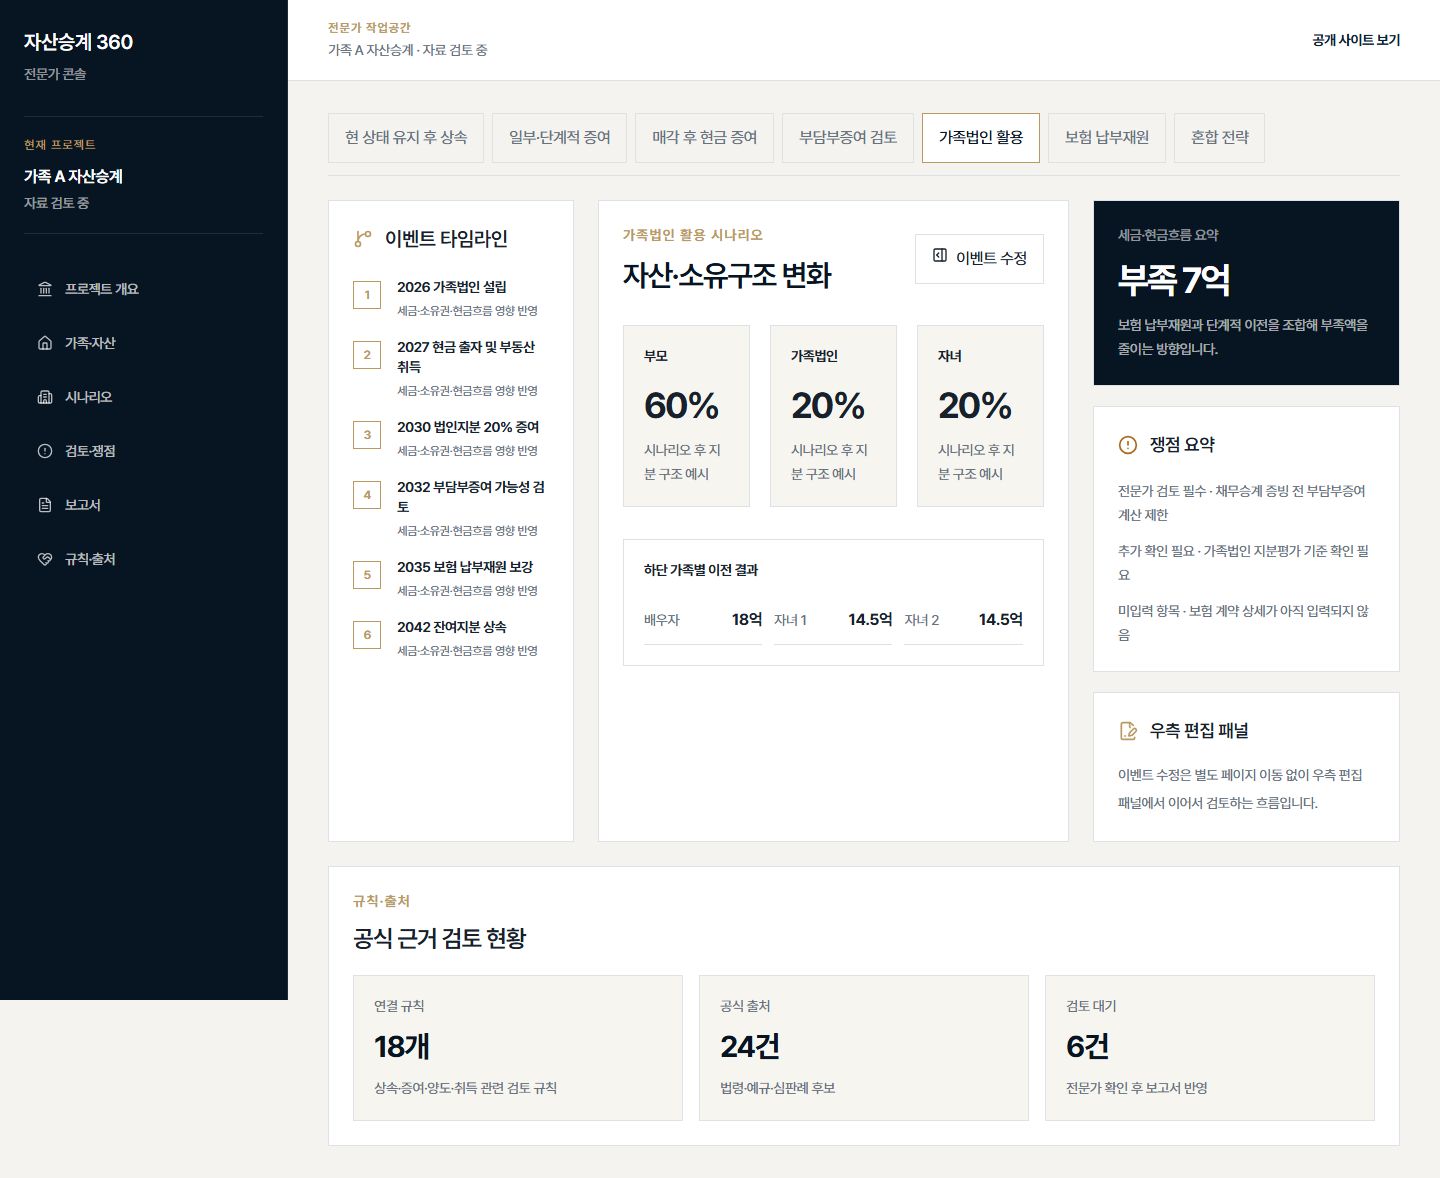
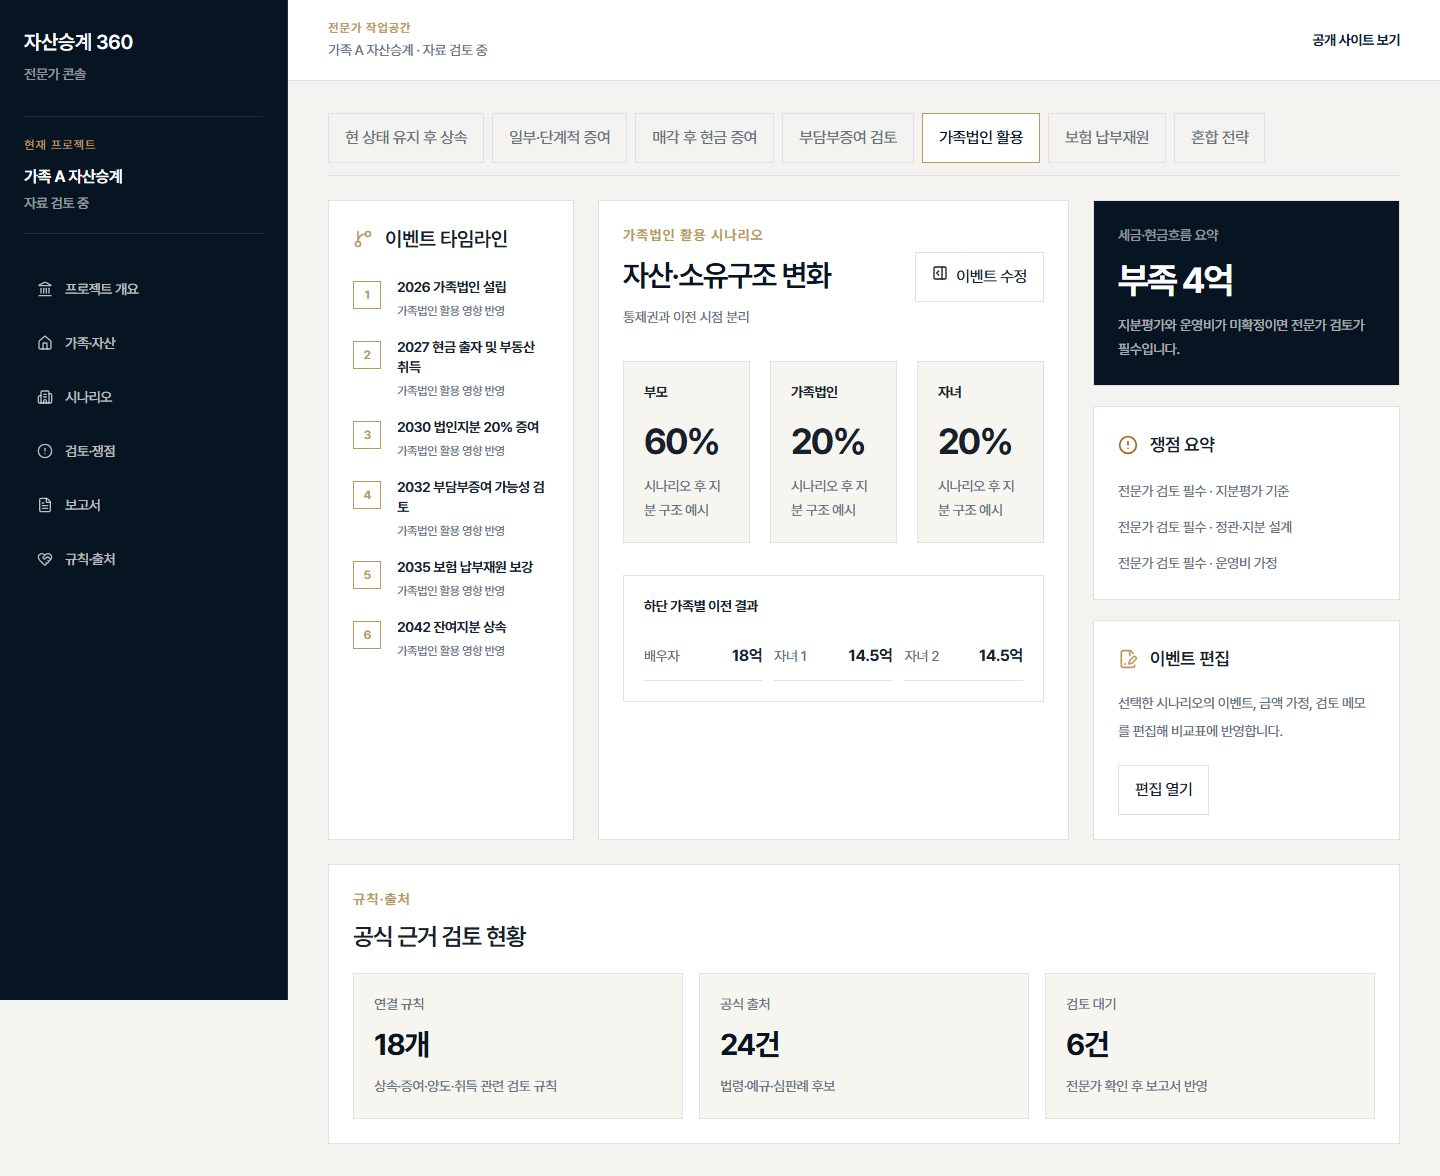
Implement expert scenario interactions

diff --git a/app/expert/workspace/page.tsx b/app/expert/workspace/page.tsx
@@ -1,16 +1,84 @@
-import { CircleAlert, FilePenLine, GitBranch, PanelRightOpen } from "lucide-react";
+"use client";
+
+import { CircleAlert, FilePenLine, GitBranch, PanelRightOpen, X } from "lucide-react";
+import { useState } from "react";
 import { ExpertShell } from "@/components/ExpertShell";
 import { strategyBranches, timelineEvents } from "@/lib/mockData";
 
+const ownershipPresets = [
+  ["부모", "100%"],
+  ["자녀", "0%"],
+  ["공동", "0%"]
+];
+
+const scenarioPresets = [
+  {
+    summary: "상속 시점 집중",
+    owners: [["부모", "100%"], ["배우자", "공제 검토"], ["자녀", "상속 시점"]],
+    cashflow: "부족 7억",
+    issue: ["배우자공제 확인", "사전증여 가산 검토", "납부재원 보강 필요"]
+  },
+  {
+    summary: "10년 합산 관리",
+    owners: [["부모", "76%"], ["자녀 1", "12%"], ["자녀 2", "12%"]],
+    cashflow: "부족 3억",
+    issue: ["평가시점 확정", "취득세 영향", "과거 증여 내역 확인"]
+  },
+  {
+    summary: "유동성 우선",
+    owners: [["부모", "현금 중심"], ["자녀", "현금 이전"], ["예비재원", "확보"]],
+    cashflow: "부족 낮음",
+    issue: ["취득가액 확인", "장기보유 요건", "매각비용 반영"]
+  },
+  {
+    summary: "채무승계 확인",
+    owners: [["부모", "자산·채무"], ["자녀", "인수 후보"], ["채권자", "승인 필요"]],
+    cashflow: "추가정보 필요",
+    issue: ["채무승계 증빙", "담보 여부", "양도세 연결"]
+  },
+  {
+    summary: "통제권과 이전 시점 분리",
+    owners: [["부모", "60%"], ["가족법인", "20%"], ["자녀", "20%"]],
+    cashflow: "부족 4억",
+    issue: ["지분평가 기준", "정관·지분 설계", "운영비 가정"]
+  },
+  {
+    summary: "납부재원 보강",
+    owners: [["부모", "55억"], ["보험", "재원 후보"], ["자녀", "수익자 검토"]],
+    cashflow: "부족 2억",
+    issue: ["계약자 확인", "수익자 구조", "보험료 재원"]
+  },
+  {
+    summary: "복합 설계",
+    owners: [["부모", "균형"], ["자녀", "분산 이전"], ["보험·법인", "조합"]],
+    cashflow: "추가 산정",
+    issue: ["실행 순서", "현금흐름", "특수관계 검토"]
+  }
+];
+
 export default function ExpertWorkspacePage() {
-  const activeStrategyIndex = 4;
+  const [activeStrategyIndex, setActiveStrategyIndex] = useState(4);
+  const [editorOpen, setEditorOpen] = useState(false);
+  const activeStrategy = strategyBranches[activeStrategyIndex];
+  const activePreset = scenarioPresets[activeStrategyIndex] ?? {
+    summary: activeStrategy.description,
+    owners: ownershipPresets,
+    cashflow: activeStrategy.liquidity_gap,
+    issue: activeStrategy.key_review_items
+  };
 
   return (
     <ExpertShell>
       <main className="px-6 py-8 lg:px-10">
         <div className="flex gap-2 overflow-x-auto border-b border-[var(--border)] pb-3 no-scrollbar">
           {strategyBranches.map((strategy, index) => (
-            <button key={strategy.name} type="button" aria-selected={index === activeStrategyIndex} className={`shrink-0 border px-4 py-3 text-sm font-semibold ${index === activeStrategyIndex ? "border-[var(--gold)] bg-white text-[var(--navy-950)]" : "border-[var(--border)] text-[var(--muted)]"}`}>
+            <button
+              key={strategy.name}
+              type="button"
+              aria-selected={index === activeStrategyIndex}
+              onClick={() => setActiveStrategyIndex(index)}
+              className={`shrink-0 border px-4 py-3 text-sm font-semibold ${index === activeStrategyIndex ? "border-[var(--gold)] bg-white text-[var(--navy-950)]" : "border-[var(--border)] text-[var(--muted)]"}`}
+            >
               {strategy.name}
             </button>
           ))}
@@ -28,7 +96,7 @@ export default function ExpertWorkspacePage() {
                   <span className="mt-1 flex h-7 w-7 shrink-0 items-center justify-center border border-[var(--gold)] text-xs font-semibold text-[var(--gold)]">{index + 1}</span>
                   <div>
                     <p className="text-sm font-semibold">{event}</p>
-                    <p className="mt-1 text-xs leading-5 text-[var(--muted)]">세금·소유권·현금흐름 영향 반영</p>
+                    <p className="mt-1 text-xs leading-5 text-[var(--muted)]">{activeStrategy.name} 영향 반영</p>
                   </div>
                 </li>
               ))}
@@ -38,18 +106,19 @@ export default function ExpertWorkspacePage() {
           <section className="border border-[var(--border)] bg-white p-6">
             <div className="flex items-center justify-between gap-4">
               <div>
-                <p className="text-sm font-semibold tracking-[0.08em] text-[var(--gold)]">가족법인 활용 시나리오</p>
+                <p className="text-sm font-semibold tracking-[0.08em] text-[var(--gold)]">{activeStrategy.name} 시나리오</p>
                 <h2 className="mt-3 text-3xl font-semibold tracking-[-0.05em] text-[var(--navy-950)]">자산·소유구조 변화</h2>
+                <p className="mt-3 text-sm leading-6 text-[var(--muted)]">{activePreset.summary}</p>
               </div>
-              <button type="button" className="hidden border border-[var(--border)] px-4 py-3 text-sm font-semibold md:inline-flex">
+              <button type="button" onClick={() => setEditorOpen(true)} className="inline-flex border border-[var(--border)] px-4 py-3 text-sm font-semibold">
                 <PanelRightOpen className="mr-2 h-4 w-4" /> 이벤트 수정
               </button>
             </div>
             <div className="mt-8 grid gap-5 md:grid-cols-3">
-              {["부모", "가족법인", "자녀"].map((owner, index) => (
+              {activePreset.owners.map(([owner, value]) => (
                 <article key={owner} className="border border-[var(--border)] bg-[var(--ivory)] p-5">
                   <p className="text-sm font-semibold">{owner}</p>
-                  <strong className="mt-5 block text-4xl tracking-[-0.06em]">{index === 0 ? "60%" : index === 1 ? "20%" : "20%"}</strong>
+                  <strong className="mt-5 block text-4xl tracking-[-0.06em]">{value}</strong>
                   <p className="mt-3 text-sm leading-6 text-[var(--muted)]">시나리오 후 지분 구조 예시</p>
                 </article>
               ))}
@@ -70,8 +139,8 @@ export default function ExpertWorkspacePage() {
           <aside id="issues" className="grid gap-5">
             <article className="border border-[var(--border)] bg-[var(--navy-950)] p-6 text-white">
               <p className="text-sm text-white/55">세금·현금흐름 요약</p>
-              <strong className="mt-4 block text-4xl tracking-[-0.06em]">부족 7억</strong>
-              <p className="mt-3 text-sm leading-6 text-white/65">보험 납부재원과 단계적 이전을 조합해 부족액을 줄이는 방향입니다.</p>
+              <strong className="mt-4 block text-4xl tracking-[-0.06em]">{activePreset.cashflow}</strong>
+              <p className="mt-3 text-sm leading-6 text-white/65">{activeStrategy.status_detail}</p>
             </article>
             <article className="border border-[var(--border)] bg-white p-6">
               <div className="flex items-center gap-3">
@@ -79,19 +148,22 @@ export default function ExpertWorkspacePage() {
                 <h2 className="text-lg font-semibold">쟁점 요약</h2>
               </div>
               <ul className="mt-5 grid gap-3 text-sm leading-6 text-[var(--muted)]">
-                <li>전문가 검토 필수 · 채무승계 증빙 전 부담부증여 계산 제한</li>
-                <li>추가 확인 필요 · 가족법인 지분평가 기준 확인 필요</li>
-                <li>미입력 항목 · 보험 계약 상세가 아직 입력되지 않음</li>
+                {activePreset.issue.map((issue) => (
+                  <li key={issue}>{activeStrategy.calculation_status} · {issue}</li>
+                ))}
               </ul>
             </article>
             <article className="border border-[var(--border)] bg-white p-6">
               <div className="flex items-center gap-3">
                 <FilePenLine className="h-5 w-5 text-[var(--gold)]" />
-                <h2 className="text-lg font-semibold">우측 편집 패널</h2>
+                <h2 className="text-lg font-semibold">이벤트 편집</h2>
               </div>
               <p className="mt-4 text-sm leading-7 text-[var(--muted)]">
-                이벤트 수정은 별도 페이지 이동 없이 우측 편집 패널에서 이어서 검토하는 흐름입니다.
+                선택한 시나리오의 이벤트, 금액 가정, 검토 메모를 편집해 비교표에 반영합니다.
               </p>
+              <button type="button" onClick={() => setEditorOpen(true)} className="mt-5 inline-flex border border-[var(--border)] px-4 py-3 text-sm font-semibold">
+                편집 열기
+              </button>
             </article>
           </aside>
         </section>
@@ -114,6 +186,48 @@ export default function ExpertWorkspacePage() {
           </div>
         </section>
       </main>
+
+      {editorOpen ? (
+        <div className="fixed inset-0 z-50" role="dialog" aria-modal="true" aria-label="이벤트 편집">
+          <button type="button" aria-label="편집 배경 닫기" className="absolute inset-0 bg-black/45" onClick={() => setEditorOpen(false)} />
+          <aside className="absolute right-0 top-0 h-full w-[min(28rem,92vw)] overflow-y-auto bg-white p-6 shadow-2xl">
+            <div className="flex items-start justify-between gap-4">
+              <div>
+                <p className="text-sm font-semibold tracking-[0.08em] text-[var(--gold)]">이벤트 편집</p>
+                <h2 className="mt-3 text-2xl font-semibold tracking-[-0.04em] text-[var(--navy-950)]">{activeStrategy.name}</h2>
+                <p className="mt-3 text-sm leading-6 text-[var(--muted)]">합성 데이터 기준으로 이벤트 가정과 검토 메모를 확인합니다.</p>
+              </div>
+              <button type="button" aria-label="이벤트 편집 닫기" onClick={() => setEditorOpen(false)} className="border border-[var(--border)] p-2">
+                <X className="h-5 w-5" />
+              </button>
+            </div>
+
+            <div className="mt-8 grid gap-4">
+              <label className="grid gap-2">
+                <span className="text-sm font-semibold">적용 시나리오</span>
+                <input readOnly value={activeStrategy.name} className="border border-[var(--border)] bg-[var(--ivory)] px-4 py-3 text-sm" />
+              </label>
+              <label className="grid gap-2">
+                <span className="text-sm font-semibold">핵심 이벤트</span>
+                <select className="border border-[var(--border)] bg-white px-4 py-3 text-sm" defaultValue={timelineEvents[0]}>
+                  {timelineEvents.map((event) => (
+                    <option key={event}>{event}</option>
+                  ))}
+                </select>
+              </label>
+              <label className="grid gap-2">
+                <span className="text-sm font-semibold">검토 메모</span>
+                <textarea className="min-h-32 border border-[var(--border)] px-4 py-3 text-sm" defaultValue={`${activeStrategy.key_review_items.join(", ")} 확인 후 보고서에 반영`} />
+              </label>
+            </div>
+
+            <div className="mt-8 flex flex-wrap gap-3">
+              <button type="button" className="bg-[var(--navy-950)] px-5 py-3 text-sm font-semibold text-white">합성 변경사항 저장</button>
+              <button type="button" onClick={() => setEditorOpen(false)} className="border border-[var(--border)] px-5 py-3 text-sm font-semibold">닫기</button>
+            </div>
+          </aside>
+        </div>
+      ) : null}
     </ExpertShell>
   );
 }

diff --git a/components/ExpertShell.tsx b/components/ExpertShell.tsx
@@ -46,7 +46,7 @@ export function ExpertShell({ children }: Readonly<{ children: React.ReactNode }
 
       {open ? (
         <div className="fixed inset-0 z-40 lg:hidden" role="dialog" aria-modal="true" aria-label="전문가 메뉴">
-          <button type="button" aria-label="전문가 메뉴 닫기" className="absolute inset-0 bg-black/45" onClick={() => setOpen(false)} />
+          <button type="button" aria-label="전문가 메뉴 배경 닫기" className="absolute inset-0 bg-black/45" onClick={() => setOpen(false)} />
           <aside className="relative h-full w-[min(22rem,86vw)] bg-[var(--navy-950)] px-6 py-7 text-white">
             <div className="flex items-center justify-between">
               <div>
